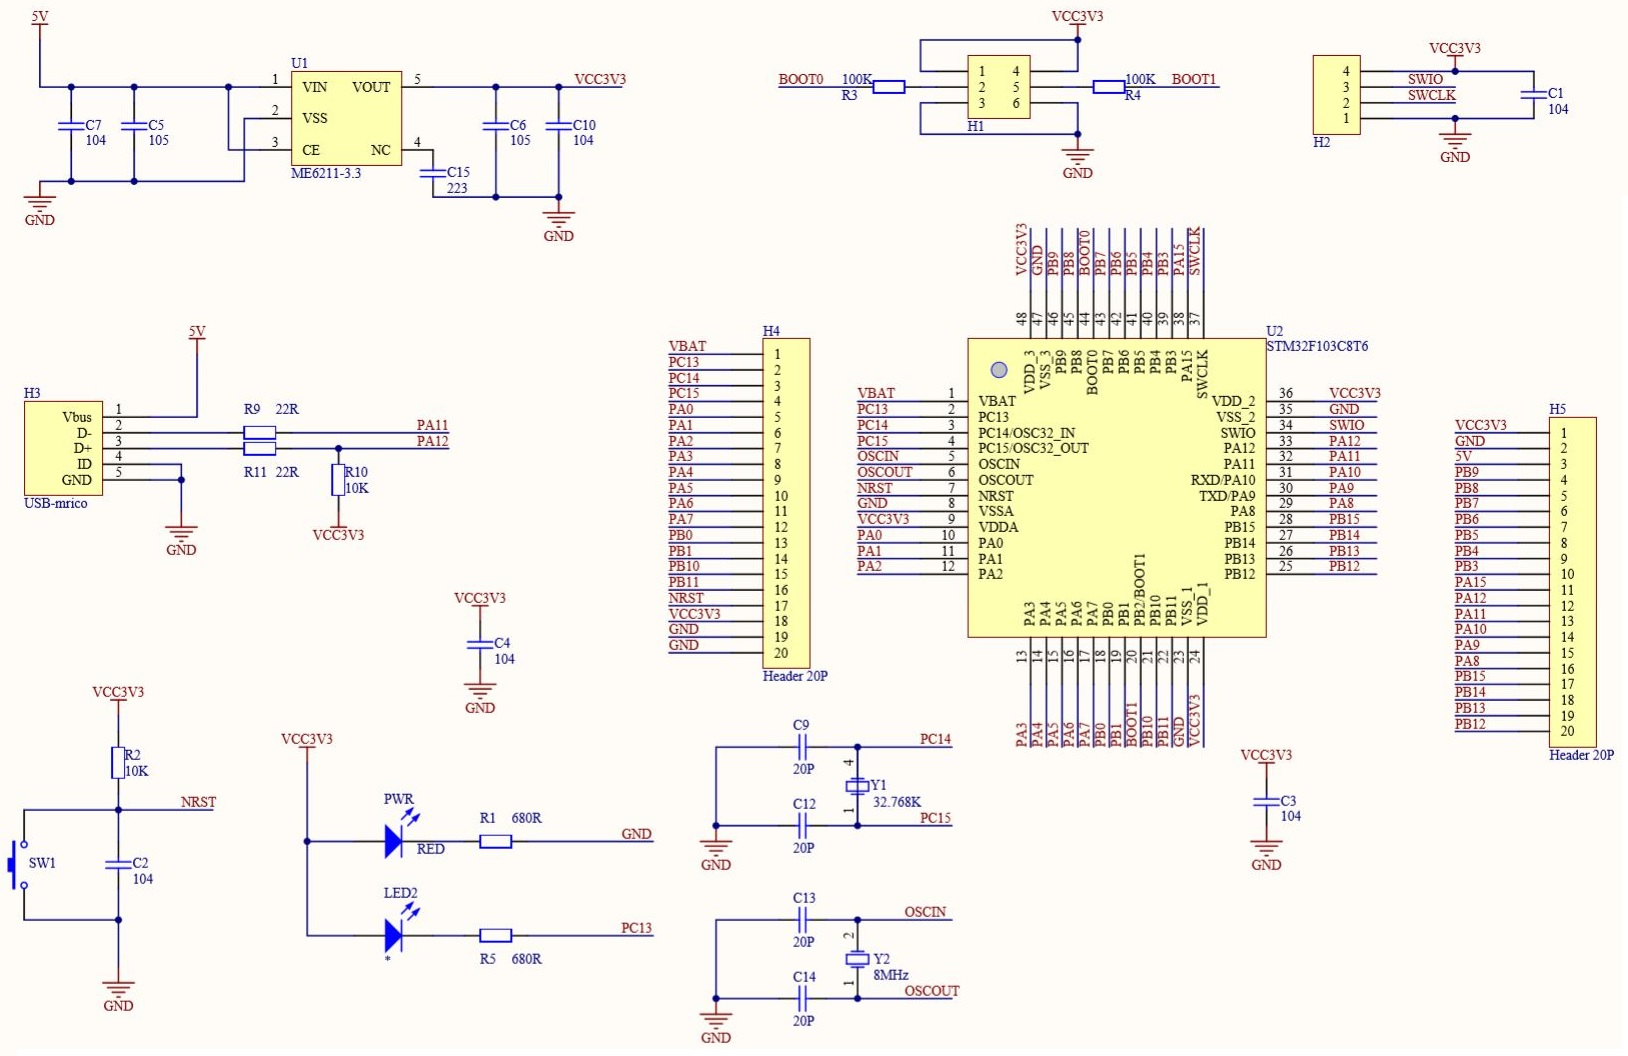
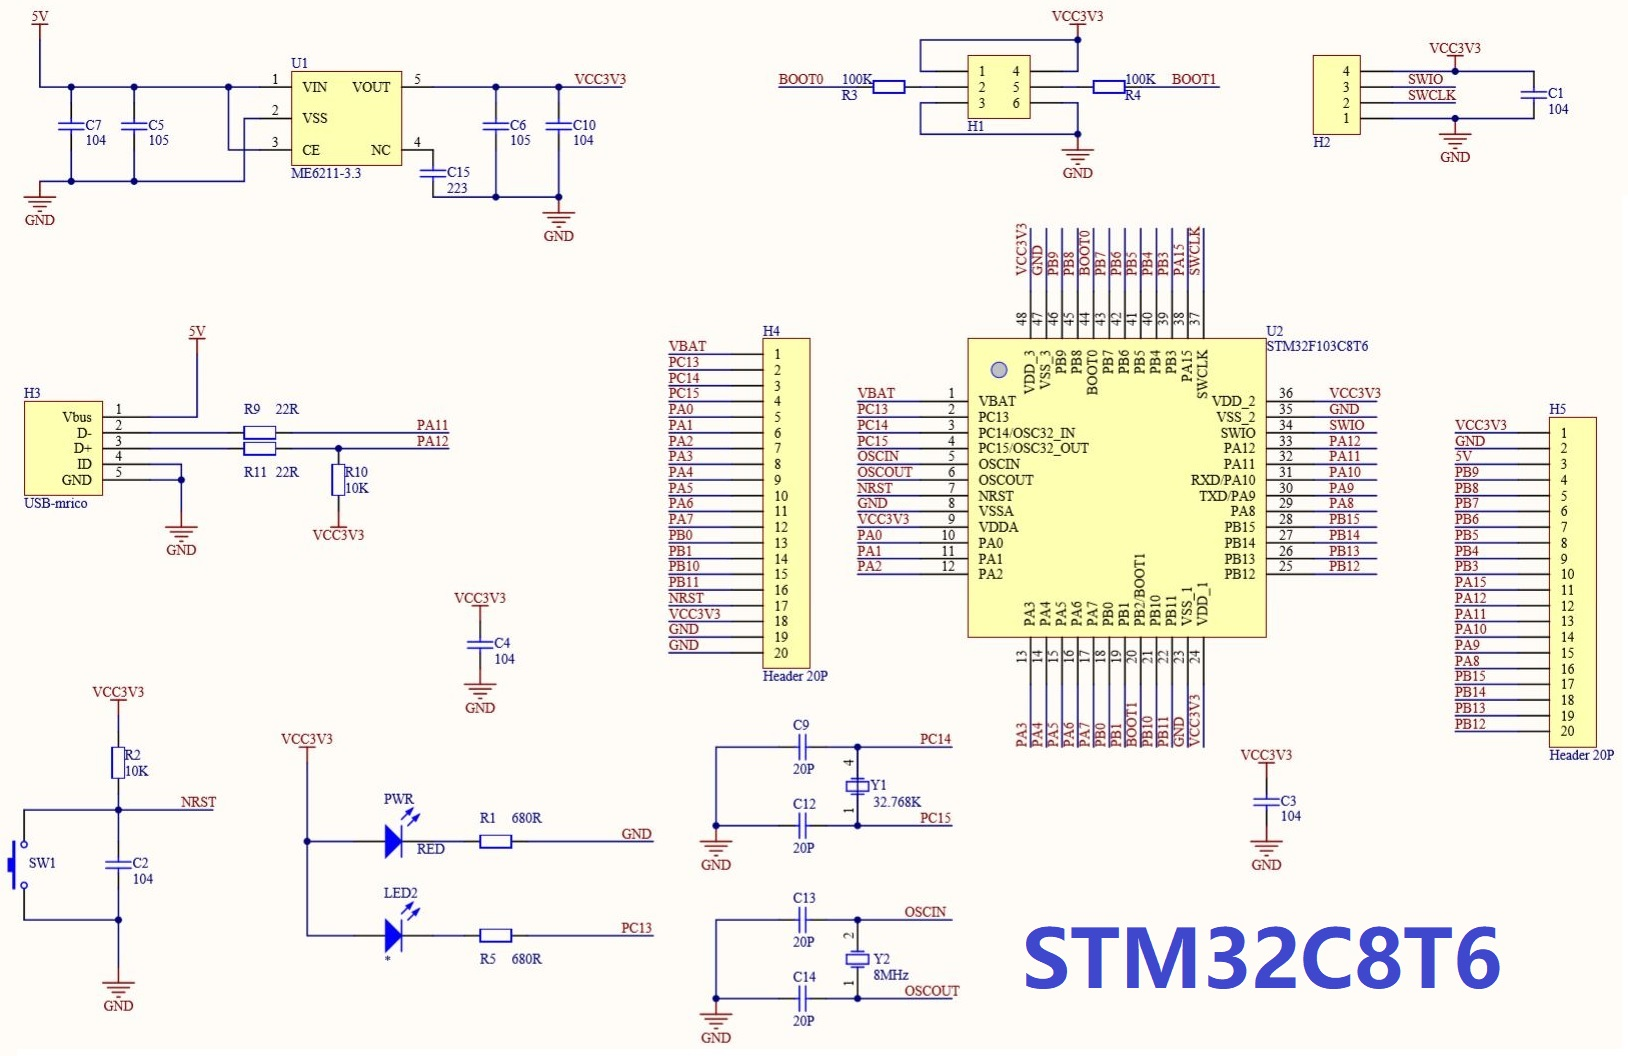
Site updated: 2020-02-20 14:37:00

Changed region(s): [[0.6143, 0.875, 0.9214, 0.9375]]

diff --git a/sitemap/index.html b/sitemap/index.html
@@ -108,24 +108,25 @@
 
 
 
-  <meta name="description" content="总想合伙搞点事情">
-<meta property="og:type" content="website">
-<meta property="og:title" content="sitemap">
-<meta property="og:url" content="http://yoursite.com/sitemap/%E8%8A%AF%E7%89%87%E8%B5%84%E6%96%99.html">
+  <meta property="og:type" content="website">
+<meta property="og:title" content="芯片原理图">
+<meta property="og:url" content="http://yoursite.com/sitemap/index.html">
 <meta property="og:site_name" content="Square0097">
-<meta property="og:description" content="总想合伙搞点事情">
 <meta property="og:locale" content="zh_CN">
+<meta property="og:image" content="http://q5y0th4yi.bkt.clouddn.com/STM32C8T6INF0001.jpg">
+<meta property="og:image" content="http://q5y0th4yi.bkt.clouddn.com/STM32ZET6INF0001.jpg">
 <meta property="article:published_time" content="2020-02-19T12:29:09.000Z">
-<meta property="article:modified_time" content="2020-02-19T12:29:09.715Z">
+<meta property="article:modified_time" content="2020-02-20T06:34:54.607Z">
 <meta property="article:author" content="Square0097">
 <meta name="twitter:card" content="summary">
+<meta name="twitter:image" content="http://q5y0th4yi.bkt.clouddn.com/STM32C8T6INF0001.jpg">
 
 
 
 
 
 
-  <link rel="canonical" href="http://yoursite.com/sitemap/芯片资料.html"/>
+  <link rel="canonical" href="http://yoursite.com/sitemap/"/>
 
 
 
@@ -135,7 +136,7 @@
   };
 </script>
 
-  <title>sitemap | Square0097</title>
+  <title>芯片原理图 | Square0097</title>
   
 
 
@@ -343,7 +344,7 @@
     <div class="post-block page">
       <header class="post-header">
 
-<h1 class="post-title" itemprop="name headline">sitemap</h1>
+<h1 class="post-title" itemprop="name headline">芯片原理图</h1>
 
 <div class="post-meta">
   
@@ -361,7 +362,8 @@
       <div class="post-body">
         
         
-          
+          <p><img src="http://q5y0th4yi.bkt.clouddn.com/STM32C8T6INF0001.jpg" alt><br><img src="http://q5y0th4yi.bkt.clouddn.com/STM32ZET6INF0001.jpg" alt></p>
+
         
       </div>
       
